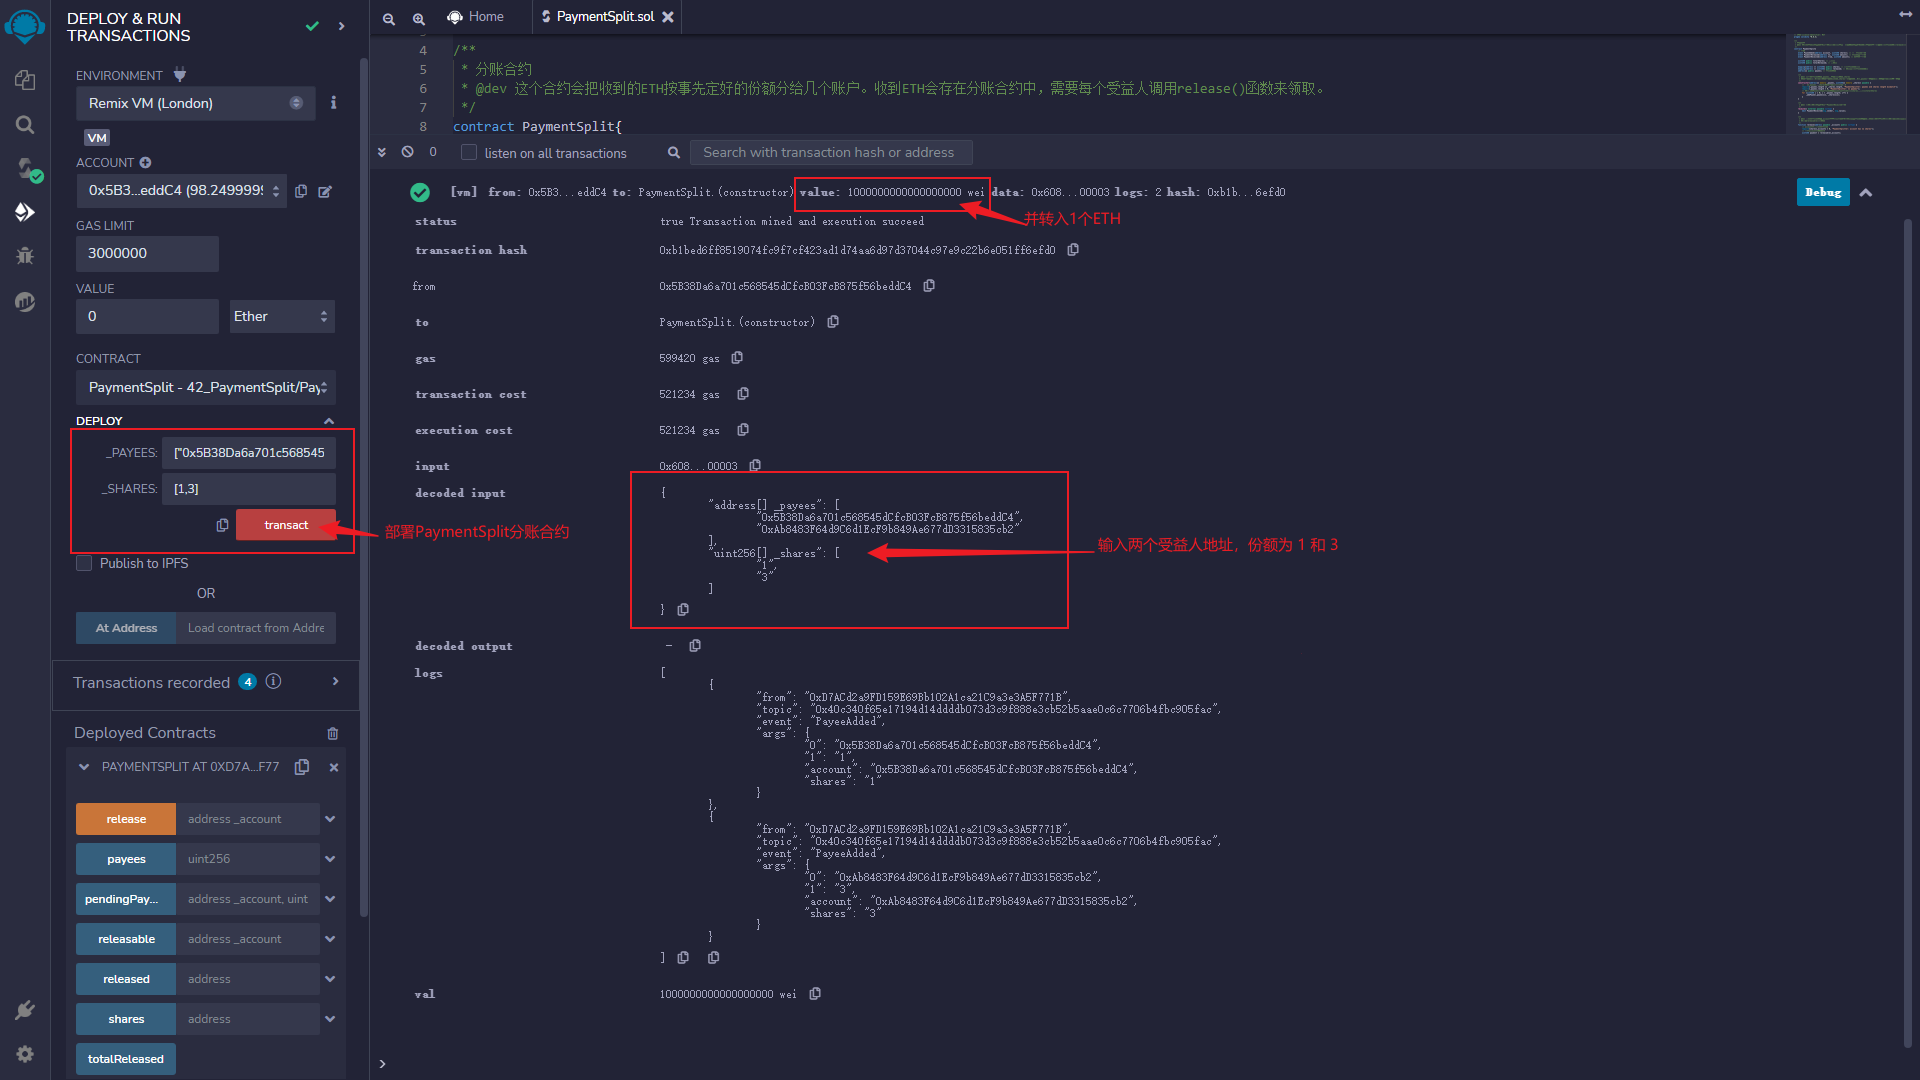
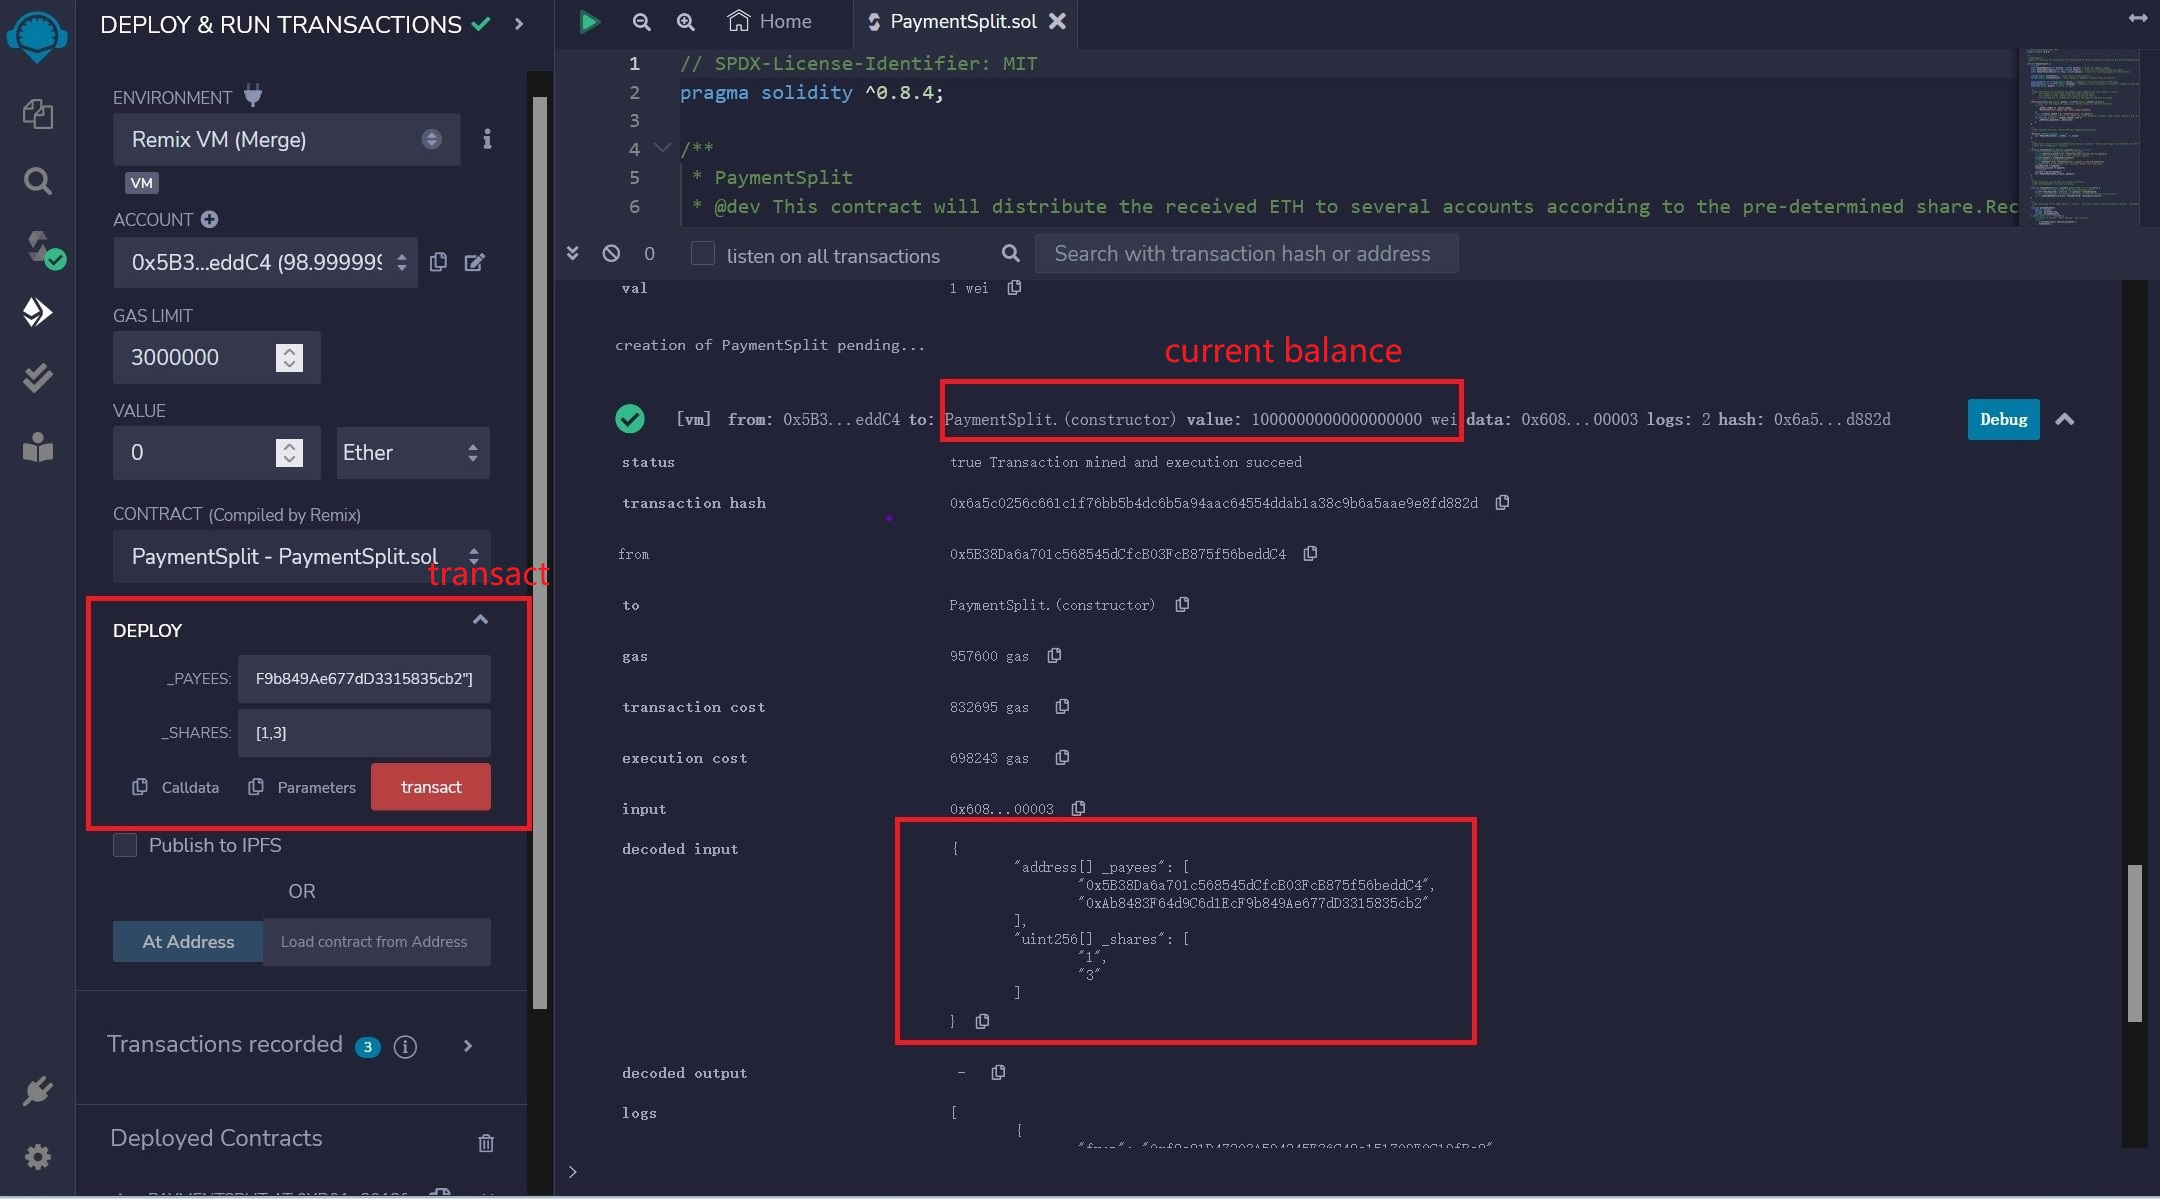
42

diff --git a/Languages/en/42_PaymentSplit_en/readme.md b/Languages/en/42_PaymentSplit_en/readme.md
@@ -3,7 +3,6 @@ title: 42. Payment Splitting
 tags:
   - solidity
   - application
-
 ---
 
 # WTF Solidity Crash Course: 42. Payment Splitting
@@ -16,7 +15,7 @@ Discord: [WTF Academy](https://discord.gg/5akcruXrsk)
 
 All codes and tutorials are open-sourced on Github: [github.com/AmazingAng/WTFSolidity](https://github.com/AmazingAng/WTFSolidity)
 
------
+---
 
 In this lecture, we'll introduce the payment splitting contract, which allows the transfer of `ETH` to a group of accounts according to their respective weights for payment splitting purposes. The code section is a simplification of the PaymentSplitter contract provided by the OpenZeppelin library, which can be found on [Github](https://github.com/OpenZeppelin/openzeppelin-contracts/blob/master/contracts/finance/PaymentSplitter.sol).
 
@@ -40,10 +39,10 @@ The Payment Split contract (`PaymentSplit`) has the following features:
 pragma solidity ^0.8.4;
 
 /**
- * Payment Split Contract 
- * @dev This contract splits received ETH into predetermined percentages among several accounts. Received ETH is stored in the contract and each beneficiary needs to call the release() function to withdraw their share.
+ * PaymentSplit
+ * @dev This contract will distribute the received ETH to several accounts according to the pre-determined share.Received ETH will be stored in PaymentSplit, and each beneficiary needs to call the release() function to claim it.
  */
-contract PaymentSplit{
+contract PaymentSplit {
 ```
 
 ### Events
@@ -55,10 +54,10 @@ There are a total of `3` events in the Splitter Contract:
 - `PaymentReceived`: Event for Splitter Contract receiving funds.
 
 ```solidity
-    // 事件
-    event PayeeAdded(address account, uint256 shares); // 增加受益人事件
-    event PaymentReleased(address to, uint256 amount); // 受益人提款事件
-    event PaymentReceived(address from, uint256 amount); // 合约收款事件
+    // event
+    event PayeeAdded(address account, uint256 shares); // Event for adding a payee
+    event PaymentReleased(address to, uint256 amount); // Event for releasing payment to a payee
+    event PaymentReceived(address from, uint256 amount); // Event for receiving payment to the contract
 ```
 
 ### State Variables
@@ -72,19 +71,19 @@ There are `5` state variables in the revenue splitting contract, used to record 
 - `released`: An `address` to `uint256` mapping that records the amount paid to each beneficiary by the revenue splitting contract.
 
 ```solidity
-    uint256 public totalShares; // 总份额
-    uint256 public totalReleased; // 总支付
+    uint256 public totalShares; // Total shares of the contract
+    uint256 public totalReleased; // Total amount of payments released from the contract
 
-    mapping(address => uint256) public shares; // 每个受益人的份额
-    mapping(address => uint256) public released; // 支付给每个受益人的金额
-    address[] public payees; // 受益人数组
+    mapping(address => uint256) public shares; // Mapping to store the shares of each payee
+    mapping(address => uint256) public released; // Mapping to store the amount of payments released to each payee
+    address[] public payees; // Array  of payees
 ```
 
 ### Functions
 
 There are `6` functions in the revenue sharing contract:
 
-- Constructor: initializes the beneficiary array `_payees` and the revenue sharing array `_shares`, where the length of both arrays must not be 0 and their lengths must be equal. Elements of the _shares array must be greater than 0, and the addresses in the _payees array can't be the zero address and can't have a duplicate address.
+- Constructor: initializes the beneficiary array `_payees` and the revenue sharing array `_shares`, where the length of both arrays must not be 0 and their lengths must be equal. Elements of the \_shares array must be greater than 0, and the addresses in the \_payees array can't be the zero address and can't have a duplicate address.
 - `receive()`: callback function, releases the `PaymentReceived` event when the revenue sharing contract receives `ETH`.
 - `release()`: revenue sharing function, distributes the corresponding `ETH` to the valid beneficiary address `_account`. Anyone can trigger this function, but the `ETH` will be transferred to the beneficiary address `_account`. Calls the releasable() function.
 - `releasable()`: calculates the amount of `ETH` that a beneficiary address should receive. Calls the `pendingPayment()` function.
@@ -92,86 +91,102 @@ There are `6` functions in the revenue sharing contract:
 - `_addPayee()`: function to add a new beneficiary and their sharing percentage. It is called during the initialization of the contract and cannot be modified afterwards.
 
 ```solidity
+
     /**
-     * @dev 初始化受益人数组_payees和分账份额数组_shares
-     * 数组长度不能为0，两个数组长度要相等。_shares中元素要大于0，_payees中地址不能为0地址且不能有重复地址
+     * @dev Constructor to initialize the payees array (_payees) and their shares (_shares).
+     *      The length of both arrays cannot be 0 and must be equal.
+            Each element in the _shares array must be greater than 0,
+            and each address in _payees must not be a zero address and must be unique.
      */
     constructor(address[] memory _payees, uint256[] memory _shares) payable {
-        // 检查_payees和_shares数组长度相同，且不为0
-        require(_payees.length == _shares.length, "PaymentSplitter: payees and shares length mismatch");
+        // Check that the length of _payees and _shares arrays are equal and not empty
+        require(
+            _payees.length == _shares.length,
+            "PaymentSplitter: payees and shares length mismatch"
+        );
         require(_payees.length > 0, "PaymentSplitter: no payees");
-        // 调用_addPayee，更新受益人地址payees、受益人份额shares和总份额totalShares
+        //  Call the _addPayee function to update the payees addresses (payees), their shares (shares), and the total shares (totalShares)
         for (uint256 i = 0; i < _payees.length; i++) {
             _addPayee(_payees[i], _shares[i]);
         }
     }
 
     /**
-     * @dev 回调函数，收到ETH释放PaymentReceived事件
+     * @dev Callback function, receive ETH emit PaymentReceived event
      */
     receive() external payable virtual {
         emit PaymentReceived(msg.sender, msg.value);
     }
 
     /**
-     * @dev 为有效受益人地址_account分帐，相应的ETH直接发送到受益人地址。任何人都可以触发这个函数，但钱会打给account地址。
-     * 调用了releasable()函数。
+     * @dev Splits funds to the designated payee address "_account". Anyone can trigger this function, but the funds will be transferred to the "_account" address.
+     * Calls the "releasable()" function.
      */
     function release(address payable _account) public virtual {
-        // account必须是有效受益人
+        // The "_account" address must be a valid payee.
         require(shares[_account] > 0, "PaymentSplitter: account has no shares");
-        // 计算account应得的eth
+        // Calculate the payment due to the "_account" address.
         uint256 payment = releasable(_account);
-        // 应得的eth不能为0
+        // The payment due cannot be zero.
         require(payment != 0, "PaymentSplitter: account is not due payment");
-        // 更新总支付totalReleased和支付给每个受益人的金额released
+        // Update the "totalReleased" and "released" amounts for each payee.
         totalReleased += payment;
         released[_account] += payment;
-        // 转账
+        // transfer
         _account.transfer(payment);
         emit PaymentReleased(_account, payment);
     }
 
     /**
-     * @dev 计算一个账户能够领取的eth。
-     * 调用了pendingPayment()函数。
+     * @dev Calculate the eth that an account can receive.
+     * The pendingPayment() function is called.
      */
     function releasable(address _account) public view returns (uint256) {
-        // 计算分账合约总收入totalReceived
+        // Calculate the total income of the profit-sharing contract
         uint256 totalReceived = address(this).balance + totalReleased;
-        // 调用_pendingPayment计算account应得的ETH
+        // Call _pendingPayment to calculate the amount of ETH that account is entitled to
         return pendingPayment(_account, totalReceived, released[_account]);
     }
 
     /**
-     * @dev 根据受益人地址`_account`, 分账合约总收入`_totalReceived`和该地址已领取的钱`_alreadyReleased`，计算该受益人现在应分的`ETH`。
+     * @dev According to the payee address `_account`, the total income of the distribution contract `_totalReceived` and the money received by the address `_alreadyReleased`, calculate the `ETH` that the payee should now distribute.
      */
     function pendingPayment(
         address _account,
         uint256 _totalReceived,
         uint256 _alreadyReleased
     ) public view returns (uint256) {
-        // account应得的ETH = 总应得ETH - 已领到的ETH
-        return (_totalReceived * shares[_account]) / totalShares - _alreadyReleased;
+        // ETH due to account = Total ETH due - ETH received
+        return
+            (_totalReceived * shares[_account]) /
+            totalShares -
+            _alreadyReleased;
     }
 
     /**
-     * @dev 新增受益人_account以及对应的份额_accountShares。只能在构造器中被调用，不能修改。
+     * @dev Add payee_account and corresponding share_accountShares. It can only be called in the constructor and cannot be modified.
      */
     function _addPayee(address _account, uint256 _accountShares) private {
-        // 检查_account不为0地址
-        require(_account != address(0), "PaymentSplitter: account is the zero address");
-        // 检查_accountShares不为0
+        // Check that _account is not 0 address
+        require(
+            _account != address(0),
+            "PaymentSplitter: account is the zero address"
+        );
+        // Check that _accountShares is not 0
         require(_accountShares > 0, "PaymentSplitter: shares are 0");
-        // 检查_account不重复
-        require(shares[_account] == 0, "PaymentSplitter: account already has shares");
-        // 更新payees，shares和totalShares
+        // Check that _account is not duplicated
+        require(
+            shares[_account] == 0,
+            "PaymentSplitter: account already has shares"
+        );
+        // Update payees, shares and totalShares
         payees.push(_account);
         shares[_account] = _accountShares;
         totalShares += _accountShares;
-        // 释放增加受益人事件
+        // emit add payee event
         emit PayeeAdded(_account, _accountShares);
     }
+}
 ```
 
 ## Remix Demo
